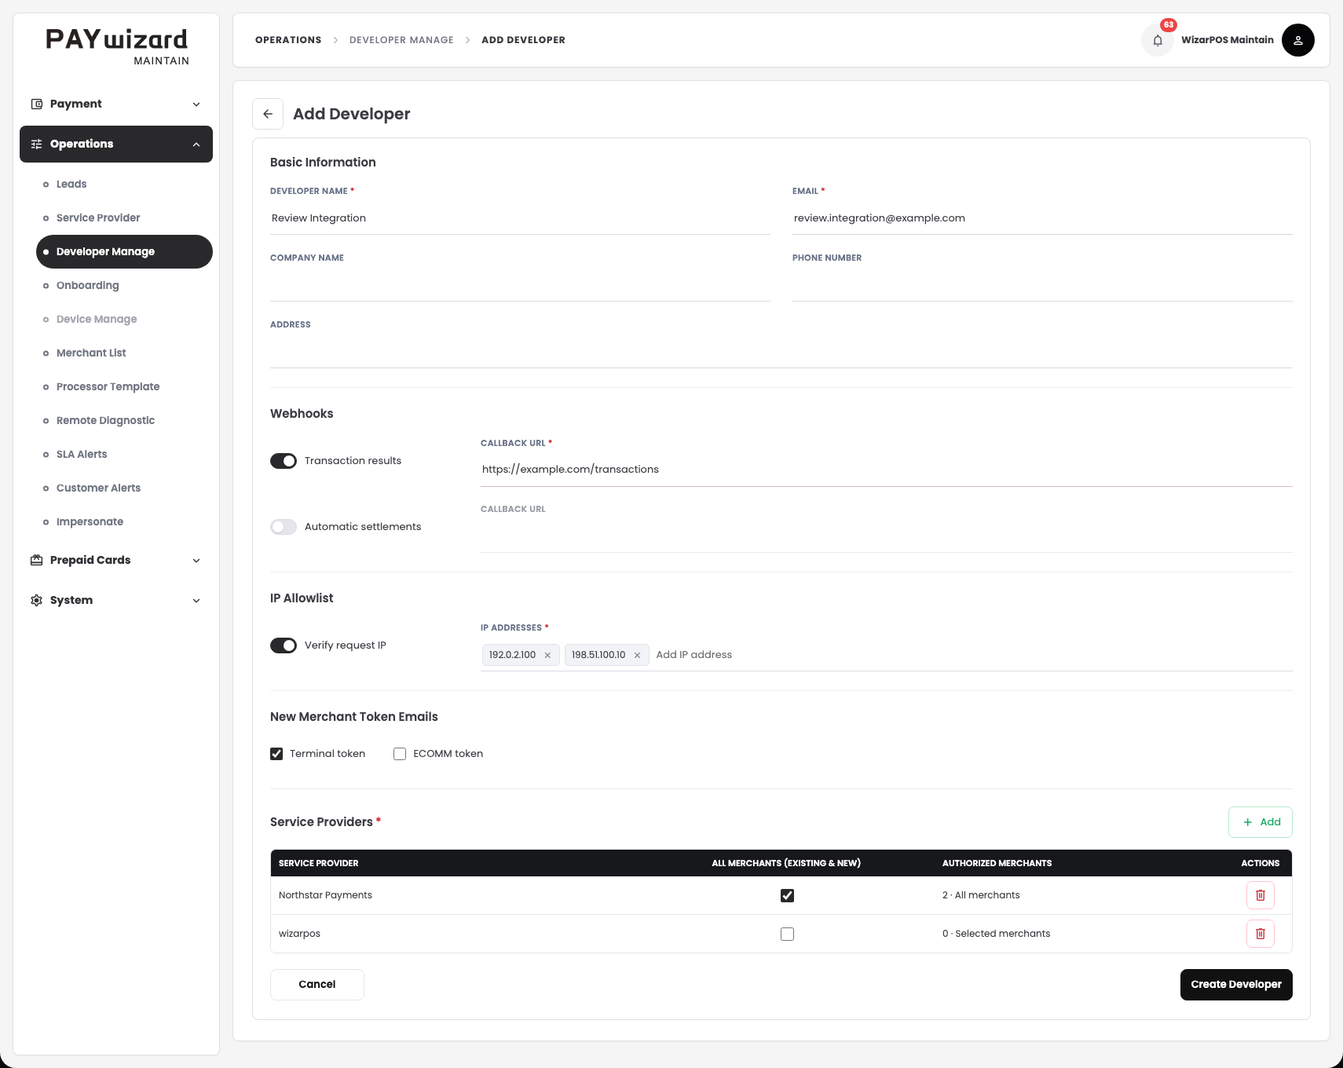
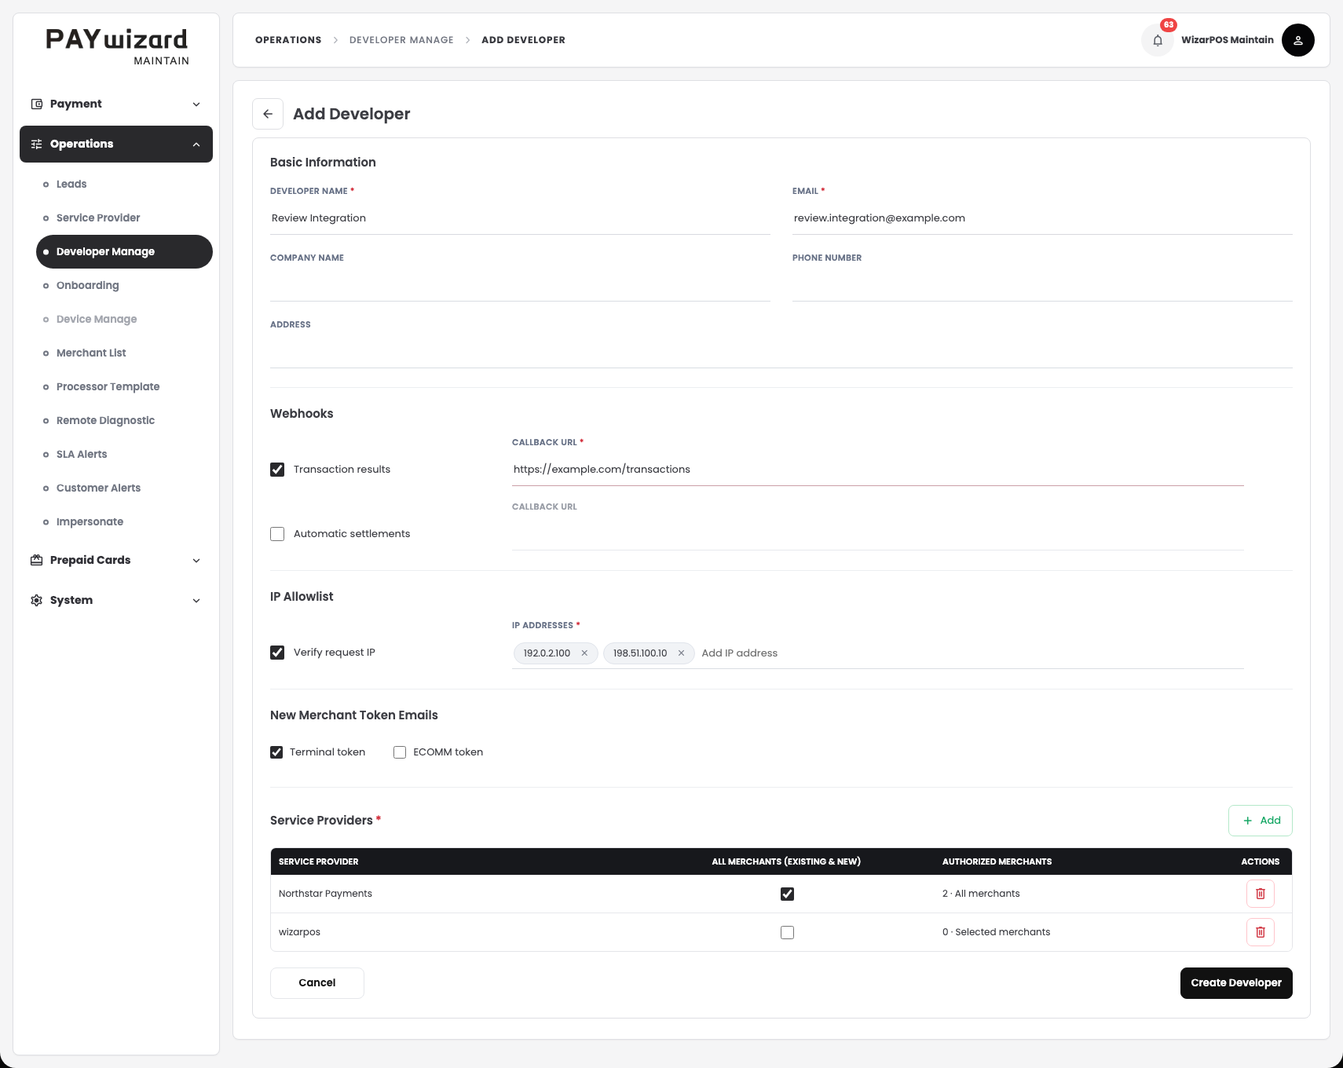
feat(developer-management): 将设置开关改为紧凑复选框布局
- 按选定设计统一 Webhook 与 IP 验证控件布局
- 保留停用字段内容并隐藏动态必填标记
- 更新设计文档、回归测试及视觉验收证据

diff --git a/tests/developer-management.spec.js b/tests/developer-management.spec.js
@@ -57,7 +57,7 @@ test('create and edit use pages, validate URLs and IPs, support multi-provider s
   await addProviders(page, ['Northstar Payments','wizarpos']);
   await page.getByRole('checkbox', { name: 'All merchants for wizarpos', exact: true }).uncheck();
   await page.locator('#dmField-ips').fill('192.0.2.10,192.0.2.10');
-  await page.getByRole('switch', { name: 'Transaction results', exact: true }).check();
+  await page.getByRole('checkbox', { name: 'Transaction results', exact: true }).check();
   await page.locator('#dmField-notifyUrl').fill('not-a-url');
   await page.getByRole('button', { name: 'Create Developer', exact: true }).click();
   await expect(page.locator('#dmFieldError-name')).toContainText('already exists');
@@ -185,7 +185,7 @@ test('allowlist validates both entry points, protects final IP and retains saved
   await page.getByRole('button', { name: 'Edit Atlas Integration', exact: true }).click();
   await expect(page.locator('#dmIpChips')).toContainText('192.0.2.10');
   await expect(page.locator('#dmIpChips')).toContainText('198.51.100.25');
-  await page.getByRole('switch', { name: 'Verify request IP', exact: true }).uncheck();
+  await page.getByRole('checkbox', { name: 'Verify request IP', exact: true }).uncheck();
   await expect(page.locator('#dmFieldWrap-ips')).toBeVisible();
   await expect(page.locator('#dmField-ips')).toBeDisabled();
   await page.getByRole('button', { name: 'Save Changes', exact: true }).click();
@@ -367,9 +367,9 @@ test('legacy accounts migrate without expanding access, sending emails or changi
 
 test('failed page save retains fields and callback state; disabled webhooks retain URLs without validation', async ({ page }) => {
   await page.goto(`/50.developer_form.html?client=${firstId}`);
-  await page.getByRole('switch',{name:'Transaction results',exact:true}).check();
+  await page.getByRole('checkbox',{name:'Transaction results',exact:true}).check();
   await page.locator('#dmField-notifyUrl').fill('https://example.com/notify');
-  await page.getByRole('switch',{name:'Transaction results',exact:true}).uncheck();
+  await page.getByRole('checkbox',{name:'Transaction results',exact:true}).uncheck();
   await page.locator('#dmField-company').fill('Retained company');
   await page.evaluate(key => {const original=Storage.prototype.setItem;Storage.prototype.setItem=function(k,v){if(k===key)throw new DOMException('Quota exceeded','QuotaExceededError');return original.call(this,k,v);};},key);
   await page.getByRole('button',{name:'Save Changes',exact:true}).click();
@@ -380,20 +380,40 @@ test('failed page save retains fields and callback state; disabled webhooks reta
   expect((await read(page)).accounts[0].company).not.toBe('Retained company');
 });
 
-test('callback rows remain stable when disabled, IP chips validate and remove individually, and mail uses checkboxes', async ({ page }) => {
+test('checkbox settings keep stable rows and disabled values; IP chips validate and remove individually', async ({ page }) => {
   await page.goto(`/50.developer_form.html?client=${firstId}`);
   const row = page.locator('.dm-settings-row').first();
   const before = await row.boundingBox();
   await expect(page.locator('#dmField-notifyUrl')).toBeVisible(); await expect(page.locator('#dmField-notifyUrl')).toBeDisabled();
-  await page.getByRole('switch',{name:'Transaction results',exact:true}).check();
+  await page.getByRole('checkbox',{name:'Transaction results',exact:true}).check();
   await page.locator('#dmField-notifyUrl').fill('https://example.com/transaction');
-  await page.getByRole('switch',{name:'Transaction results',exact:true}).uncheck();
+  await page.getByRole('checkbox',{name:'Transaction results',exact:true}).uncheck();
   await expect(page.locator('#dmField-notifyUrl')).toBeDisabled();
   await expect(page.locator('#dmField-notifyUrl')).toHaveValue('https://example.com/transaction');
   const after = await row.boundingBox(); expect(after.height).toBe(before.height);
   await page.getByRole('textbox',{name:'Add IP address',exact:true}).fill('198.51.100.20');
   await page.getByRole('textbox',{name:'Add IP address',exact:true}).press('Enter');
   await expect(page.locator('#dmIpChips .dm-ip-chip')).toHaveCount(2);
+  for (const name of ['Transaction results', 'Automatic settlements', 'Verify request IP']) {
+    await expect(page.getByRole('checkbox',{name,exact:true})).toBeVisible();
+    await expect(page.getByRole('switch',{name,exact:true})).toHaveCount(0);
+  }
+  await page.getByRole('checkbox',{name:'Transaction results',exact:true}).check();
+  await page.locator('#dmField-notifyUrl').fill('https://example.com/webhooks/transactions');
+  await page.getByRole('checkbox',{name:'Automatic settlements',exact:true}).check();
+  await page.locator('#dmField-settleUrl').fill('https://example.com/webhooks/settlements');
+  await page.getByRole('checkbox',{name:'Automatic settlements',exact:true}).uncheck();
+  await expect(page.locator('#dmFieldWrap-settleUrl .pc-required')).toBeHidden();
+  await expect(page.locator('#dmField-settleUrl')).toBeDisabled();
+  await page.locator('[aria-labelledby="dmWebhookTitle"]').evaluate(e=>e.scrollIntoView({block:'start'}));
+  const webhooks=await page.locator('[aria-labelledby="dmWebhookTitle"]').boundingBox();
+  const allowlist=await page.locator('[aria-labelledby="dmIpTitle"]').boundingBox();
+  await page.screenshot({path:'docs/validation/developer-management/checkbox-settings-page.png'});
+  await page.screenshot({path:'docs/validation/developer-management/checkbox-settings.png',clip:{x:webhooks.x,y:webhooks.y,width:webhooks.width,height:allowlist.y+allowlist.height-webhooks.y}});
+  await page.getByRole('checkbox',{name:'Transaction results',exact:true}).uncheck();
+  await page.getByRole('checkbox',{name:'Transaction results',exact:true}).check();
+  await page.locator('#dmField-notifyUrl').fill('https://example.com/transaction');
+  await page.getByRole('checkbox',{name:'Transaction results',exact:true}).uncheck();
   await page.getByRole('textbox',{name:'Add IP address',exact:true}).fill('192.0.2.10');
   await page.getByRole('textbox',{name:'Add IP address',exact:true}).press('Enter');
   await expect(page.locator('#dmFieldError-ips')).toContainText('duplicate');
@@ -461,7 +481,7 @@ test('service provider catalog matches the management page and new provider plat
   await dialog(page).getByRole('button',{name:'Add Selected',exact:true}).click();
   await expect(page.locator('#dmProviderRows button .material-symbols-rounded')).toHaveText('delete');
   await page.locator('#dmField-name').fill('Catalog Integration');await page.locator('#dmField-email').fill('catalog.integration@example.com');
-  await page.getByRole('switch',{name:'Verify request IP',exact:true}).uncheck();
+  await page.getByRole('checkbox',{name:'Verify request IP',exact:true}).uncheck();
   await page.getByRole('button',{name:'Create Developer',exact:true}).click();await expect(page).toHaveURL(/50.developer_manage.html$/);
   const after=await read(page), created=after.accounts.find(a=>a.name==='Catalog Integration');
   expect(after.bindings.filter(b=>b.clientId!==created.id)).toEqual(before.bindings);

diff --git a/scripts/developer-management.js b/scripts/developer-management.js
@@ -193,8 +193,8 @@
   function editAccount(id) {
     remember(); location.href = id ? url('form', id) : '50.developer_form.html';
   }
-  function switchField(name, label, checked) {
-    return `<label class="dm-toggle" for="dmField-${name}"><span>${esc(label)}</span><span class="dm-switch"><input type="checkbox" role="switch" id="dmField-${name}"${checked ? ' checked' : ''}><span aria-hidden="true"></span></span></label>`;
+  function settingChoice(name, label, checked) {
+    return `<label class="dm-setting-choice" for="dmField-${name}"><input type="checkbox" id="dmField-${name}"${checked ? ' checked' : ''}><span>${esc(label)}</span></label>`;
   }
   function mountForm() {
     const a = account();
@@ -203,8 +203,8 @@
     heading(a ? 'Edit Developer' : 'Add Developer', '50.developer_manage.html', a?.name || '');
     $('dmContent').innerHTML = `<div class="pc-form-panel"><form id="dmAccountForm" novalidate>
       <section class="dm-form-section" aria-labelledby="dmBasicTitle"><h2 id="dmBasicTitle">Basic Information</h2><div class="dm-form-grid">${field('name', 'Developer Name', draft.name, { required: true, readonly: !!a })}${field('email', 'Email', draft.email, { required: true, readonly: !!a })}${field('company', 'Company Name', draft.company)}${field('phone', 'Phone Number', draft.phone)}${field('address', 'Address', draft.address, { wide: true })}</div></section>
-      <section class="dm-form-section" aria-labelledby="dmWebhookTitle"><h2 id="dmWebhookTitle">Webhooks</h2><div class="dm-settings-rows"><div class="dm-settings-row">${switchField('notifyEnabled', 'Transaction results', draft.notifyEnabled)}${field('notifyUrl', 'Callback URL', draft.notifyUrl, { required: true })}</div><div class="dm-settings-row">${switchField('settleEnabled', 'Automatic settlements', draft.settleEnabled)}${field('settleUrl', 'Callback URL', draft.settleUrl, { required: true })}</div></div></section>
-      <section class="dm-form-section" aria-labelledby="dmIpTitle"><h2 id="dmIpTitle">IP Allowlist</h2><div class="dm-settings-row">${switchField('verify', 'Verify request IP', draft.verify)}<div class="dm-field pc-field" id="dmFieldWrap-ips"><label for="dmField-ips">IP Addresses<span class="pc-required">*</span></label><div class="dm-ip-editor" id="dmIpEditor"><div id="dmIpChips" class="dm-ip-chips"></div><input id="dmField-ips" name="ips" aria-label="Add IP address" aria-describedby="dmFieldError-ips" placeholder="Add IP address" autocomplete="off" spellcheck="false"></div><p class="dm-field-error" id="dmFieldError-ips" hidden></p></div></div></section>
+      <section class="dm-form-section" aria-labelledby="dmWebhookTitle"><h2 id="dmWebhookTitle">Webhooks</h2><div class="dm-settings-rows"><div class="dm-settings-row">${settingChoice('notifyEnabled', 'Transaction results', draft.notifyEnabled)}${field('notifyUrl', 'Callback URL', draft.notifyUrl, { required: true })}</div><div class="dm-settings-row">${settingChoice('settleEnabled', 'Automatic settlements', draft.settleEnabled)}${field('settleUrl', 'Callback URL', draft.settleUrl, { required: true })}</div></div></section>
+      <section class="dm-form-section" aria-labelledby="dmIpTitle"><h2 id="dmIpTitle">IP Allowlist</h2><div class="dm-settings-row">${settingChoice('verify', 'Verify request IP', draft.verify)}<div class="dm-field pc-field" id="dmFieldWrap-ips"><label for="dmField-ips">IP Addresses<span class="pc-required">*</span></label><div class="dm-ip-editor" id="dmIpEditor"><div id="dmIpChips" class="dm-ip-chips"></div><input id="dmField-ips" name="ips" aria-label="Add IP address" aria-describedby="dmFieldError-ips" placeholder="Add IP address" autocomplete="off" spellcheck="false"></div><p class="dm-field-error" id="dmFieldError-ips" hidden></p></div></div></section>
       <section class="dm-form-section" aria-labelledby="dmMailTitle"><h2 id="dmMailTitle">New Merchant Token Emails</h2><div class="dm-email-options">${['terminalAuto', 'ecommAuto'].map(name => `<label class="dm-email-choice"><input type="checkbox" id="dmField-${name}"${draft[name] ? ' checked' : ''}><span>${name === 'terminalAuto' ? 'Terminal token' : 'ECOMM token'}</span></label>`).join('')}</div></section>
       <section class="dm-form-section dm-provider-section" aria-labelledby="dmProvidersTitle"><div class="dm-section-heading"><h2 id="dmProvidersTitle">Service Providers<span class="pc-required">*</span></h2><button type="button" class="pc-button pc-add" id="dmAddProviders" aria-label="Add Service Providers">${icon('add')}Add</button></div><div id="dmField-providerScopes" tabindex="-1" aria-describedby="dmFieldError-providerScopes"><div class="pc-table-scroll"><table class="pc-table dm-provider-table" aria-label="Bound service providers"><thead><tr><th>SERVICE PROVIDER</th><th>ALL MERCHANTS (EXISTING &amp; NEW)</th><th>AUTHORIZED MERCHANTS</th><th class="pc-actions-col">ACTIONS</th></tr></thead><tbody id="dmProviderRows"></tbody></table></div></div><p class="dm-field-error" id="dmFieldError-providerScopes" hidden></p></section>
       <footer class="pc-form-actions"><a href="50.developer_manage.html" class="pc-button pc-secondary" id="dmCancelForm">Cancel</a><button class="pc-button pc-primary" type="submit" id="dmSubmitAccount">${a ? 'Save Changes' : 'Create Developer'}</button></footer>

diff --git a/styles/developer-management.css b/styles/developer-management.css
@@ -75,9 +75,11 @@
 .dm-account-page .dm-field.pc-field>input:focus{border-bottom-color:var(--pc-field-focus)}
 .dm-account-page .dm-field.pc-field>[aria-invalid=true]{border-bottom-color:#b32f3c}
 .dm-account-page .dm-field[aria-invalid=true],.dm-account-page #dmField-providerScopes[aria-invalid=true]{outline:1px solid #b32f3c;outline-offset:3px}
-.dm-settings-rows{display:flex;flex-direction:column;gap:18px}
-.dm-settings-row{display:grid;grid-template-columns:240px minmax(0,1fr);align-items:center;gap:28px;min-height:66px}
-.dm-toggle{display:flex;align-items:center;flex-direction:row-reverse;justify-content:flex-end;gap:10px;min-height:40px;font-size:13px;cursor:pointer}
+.dm-settings-rows{display:flex;flex-direction:column;gap:16px}
+.dm-settings-row{display:grid;grid-template-columns:minmax(220px,25%) minmax(0,1fr);align-items:start;gap:28px;min-height:66px;max-width:1240px}
+.dm-setting-choice{display:flex;align-items:center;gap:12px;min-height:40px;margin-top:24px;font-size:13px;cursor:pointer}
+.dm-setting-choice input{width:18px;height:18px;flex:none;padding:0;margin:0;accent-color:#29292c;cursor:pointer}
+.dm-setting-choice input:focus-visible{outline:2px solid #687287;outline-offset:3px}
 .dm-account-page .dm-disabled-field{color:#9b9fa8}
 .dm-account-page .dm-disabled-field>label{color:#9b9fa8}
 .dm-account-page .dm-field.pc-field>input:disabled{color:#9b9fa8;border-bottom-color:#e7e9ed;cursor:default;opacity:1}
@@ -86,7 +88,7 @@
 .dm-ip-editor:focus-within{border-bottom-color:var(--pc-field-focus)}
 .dm-ip-editor:has([aria-invalid=true]){border-bottom-color:#b32f3c}
 .dm-ip-chips{display:contents}
-.dm-ip-chip{display:inline-flex;align-items:center;gap:5px;padding:3px 5px 3px 8px;background:#f1f3f6;border:1px solid #e0e4eb;border-radius:5px;font-size:12px;line-height:20px;white-space:nowrap}
+.dm-ip-chip{display:inline-flex;align-items:center;gap:8px;padding:3px 7px 3px 12px;background:#f1f3f6;border:1px solid #e0e4eb;border-radius:18px;font-size:12px;line-height:20px;white-space:nowrap}
 .dm-ip-chip button{display:inline-flex;align-items:center;justify-content:center;width:20px;height:20px;padding:0;border:0;border-radius:3px;background:transparent;color:#747985;cursor:pointer}
 .dm-ip-chip button:hover{background:#e3e7ed}
 .dm-ip-chip .material-symbols-rounded{font-size:15px}
@@ -98,13 +100,6 @@
 .dm-email-options{display:flex;align-items:center;gap:36px;min-height:40px}
 .dm-email-choice{display:inline-flex;align-items:center;gap:9px;cursor:pointer;font-size:13px}
 .dm-account-page .dm-email-choice input{width:16px;height:16px;padding:0;margin:0;accent-color:#29292c;cursor:pointer}
-.dm-switch{position:relative;display:inline-flex;flex:none;width:34px;height:20px}
-.dm-switch input{position:absolute;inset:0;opacity:0;cursor:pointer;width:100%;height:100%;margin:0;z-index:1}
-.dm-switch>span{display:block;width:100%;height:100%;background:#e4e6eb;border:1px solid #d9dde3;border-radius:20px;transition:background .15s ease}
-.dm-switch>span:after{content:'';display:block;width:14px;height:14px;margin:2px;background:#fff;border-radius:50%;box-shadow:0 1px 2px #0002;transition:transform .15s ease}
-.dm-switch input:checked+span{background:#29292c;border-color:#29292c}
-.dm-switch input:checked+span:after{transform:translateX(14px)}
-.dm-switch input:focus-visible+span{outline:2px solid #687287;outline-offset:3px}
 .dm-section-heading{display:flex;align-items:center;justify-content:space-between;gap:24px;margin-bottom:14px}
 .dm-section-heading h2{margin:0}
 .dm-provider-name{display:flex;align-items:center;gap:10px;min-width:0}
@@ -140,5 +135,5 @@
 .dm-binding-copy{display:-webkit-box;-webkit-line-clamp:2;-webkit-box-orient:vertical;max-height:35px;overflow:hidden}
 .pc-picker-panel .pp-option-copy{display:flex;flex-direction:column;gap:4px}
 .pc-picker-panel .pp-option-detail{font-size:11px;line-height:1.5;color:#7b8695;white-space:normal}
-@media(prefers-reduced-motion:reduce){.dm-switch>span,.dm-switch>span:after{transition:none}.dm-toast{animation:none}}
+@media(prefers-reduced-motion:reduce){.dm-toast{animation:none}}
 @media(max-width:1150px){.dm-token-actions{margin-left:0}.dm-form-grid{gap:16px 20px}.dm-title-group{flex-wrap:wrap}}

diff --git a/docs/validation/developer-management/checkbox-settings-comparison.html b/docs/validation/developer-management/checkbox-settings-comparison.html
@@ -1,0 +1,1 @@
+<!doctype html><html lang="zh"><meta charset="utf-8"><title>开发者控件方案核对</title><style>body{margin:24px;background:white;font:14px Arial;color:#29292c}main{display:grid;grid-template-columns:1fr 1fr;gap:24px}h2{font-size:16px}img{display:block;width:100%;height:auto}p{color:#737b88;line-height:1.6}</style><main><section><h2>选定的第一版</h2><img src="checkbox-settings-selected-design.png" alt="Selected Compact Aligned Rows concept"></section><section><h2>实际 Portal 页面</h2><img src="checkbox-settings.png" alt="Implemented checkbox settings"><p>采用 Portal 紧凑字号；停用字段隐藏必填星号。其余业务与校验规则保持一致。</p></section></main></html>

diff --git a/design-qa.md b/design-qa.md
@@ -409,3 +409,50 @@ final result: passed
 - Comparison history: first scoped comparison has no actionable P0/P1/P2 findings; native checkbox glyph/corner rendering is an accepted minor standard-control difference. No further visual iteration needed.
 - Open questions: none. Follow-up polish: none within the requested scope. Desktop only, per repository instruction.
 - Implementation checklist: six entries replaced; switch role/track removed; dependency and persistence unchanged; screenshots reviewed; regression, syntax, build and diff checks passed. Local prototype only, no deployment.
+
+---
+
+# 开发者三组控件：第一版视觉验收
+
+## 比较目标
+
+- 用户明确选择最近一组设计图中的第一张 Compact Aligned Rows。
+- 来源：`docs/validation/developer-management/checkbox-settings-selected-design.png`，1820 × 864 像素。
+- 实现：`docs/validation/developer-management/checkbox-settings.png`，872 × 384 像素裁剪；完整页面见 `checkbox-settings-page.png`。浏览器桌面视口 1280 × 720，deviceScaleFactor 1。
+- 状态：交易回调开启并填入 URL，自动结算回调关闭且保留 URL，IP 验证开启并保留两个 IP 标签。
+- 并排比较：`docs/validation/developer-management/checkbox-settings-comparison.html`。比较时两图等宽显示，设计稿顶部的方案名称不属于产品内容；Portal 保留 13px 正文字号，不按设计图放大字号。
+
+## 首轮发现
+
+- [P2] 固定 280px 左列在较窄桌面上占比过大，输入起点约占内容宽度 35%，超过设计图的约 28%。修复为左列占 25%、至少 220px，并保留 28px 列间距；需要更新截图再次比较。
+- 设计稿停用 URL 仍误带必填星号。按已确认业务规则，实际页面停用时隐藏星号，保留输入内容与禁用状态。
+
+## 五项视觉核对
+
+- 字体：沿用 Portal 的 Poppins、13px 正文与 15px 小节标题，字重层级保留。
+- 布局：三组采用左复选框、右输入，右侧标签与下划线一致对齐；比例列宽修复后输入起点约占内容宽度 28%，与设计稿一致。
+- 颜色：沿用深灰勾选、白底、浅灰分隔线；停用字段淡灰。
+- 图像：目标只包含标准表单控件，没有需要生成的图像资产；使用原生复选框与已有 Material Symbols 删除图标。
+- 文案：保留 Webhooks、Transaction results、Automatic settlements、IP Allowlist、Verify request IP 及原字段标签；不将评审用方案名称写入产品页面。
+
+## 交互与验证
+
+- Chrome 已核对原生复选框、启停后值保留、IP 多值输入与标签状态。
+- 20 项 Playwright 回归通过，含保存、编辑、校验、无效 IP、跨页选择与旧数据迁移。
+- 比例列宽修复后，以相同 1280 × 720 视口重新捕获相同状态，并排页面在 Chrome 中检查通过；较矮桌面与本次复选框交互两项回归通过。
+- Chrome 开发者页控制台 error 记录为空。
+
+## 复查结果
+
+- 首轮 P2 证据保留为 `docs/validation/developer-management/checkbox-settings-before-qa.png`；修复后的 `checkbox-settings.png` 已覆盖更新。
+- 全图比较在 `checkbox-settings-comparison.html` 中等宽并排显示；三组控件的布局、字段关联、选中与禁用状态符合选定方向。相关局部即全部三个设置组，872 × 384 裁剪足以清晰核对字号、勾选形态、IP 标签与输入下划线，无需另加局部裁剪。
+- 保留 Portal 紧凑字号、18px 原生复选框与动态必填星号是既定项目规格及业务规则；评审图的方案名称不进入正式界面。
+- 无待修复的 P0/P1/P2；无需要扩大本次范围的 P3 项。
+
+## 完成清单
+
+- 已替换三个 switch 语义为 checkbox，支持名称点击与键盘交互。
+- 已保留未勾选时的值、禁用联动、行高与保存校验。
+- 已更新设计记录、自动回归与实际页面证据。
+
+final result: passed

diff --git a/docs/design/developer-management-replica.md b/docs/design/developer-management-replica.md
@@ -16,7 +16,7 @@
 - Bind Merchant 的商户选择弹窗移除 MID、BINDING 两列。独立绑定主列表原本没有这两列，无需为此改动其业务字段。
 - Webhook、IP 白名单与 Token 邮件的授权、回调及发送规则保持已确认含义；本轮重新选择控件组织方式。
 
-- 回调改为一项一行：左侧为紧邻业务名称的开关，右侧为同一行的下划线 URL 输入。
+- 视觉评审已选择第一版 Compact Aligned Rows，取代开关样式：回调与 IP 验证使用复选框，紧邻左侧业务名称，右侧统一对齐下划线输入。左列占 25% 且至少 220px、列间距 28px、内容最大宽度 1240px，沿用 Portal 紧凑字号，IP 地址使用圆角标签。
 - 回调或 IP 验证关闭时，输入仍显示并禁用，保留内容，隐藏对应必填标记，维持行高与后续内容位置。
 - IP 改为可逐项移除的标签输入：Enter、逗号、粘贴多个地址或移出输入时提交标签，逐项校验 IPv4 与重复项；无效输入保留并就地提示，保存时仍统一校验。
 - Terminal、ECOMM Token 邮件偏好并排使用复选框。
@@ -32,14 +32,14 @@
 页面顺序：
 
 1. Basic Information：Developer Name、Email、Company Name、Phone Number、Address。
-2. Webhooks：Transaction results、Automatic settlements，各自独立开关与 Callback URL。
+2. Webhooks：Transaction results、Automatic settlements，各自独立复选框与 Callback URL。
 3. IP Allowlist：Verify request IP 与 IP Addresses 为同组配置。
 4. New Merchant Token Emails：Terminal token 与 ECOMM token 独立复选框。
 5. Service Providers：置于底部的服务商绑定列表。
 
 Developer Name、Email、至少一个服务商必填；名称与 Email 创建时分别查重，编辑时只读。其余原有基础资料字段不增加业务限制。服务商可在编辑时添加或移除。
 
-两个 Webhook 开关默认关闭、Token 邮件复选框默认未选；Verify request IP 沿用默认开启。各项配置均在保存后生效。保存成功返回开发者列表并保留列表筛选、分页及滚动上下文；指定商户通过原有 Bind Merchant 入口继续配置。未保存修改离页时保留项目的放弃修改确认；保存失败保留全部输入并滚动、聚焦可见错误。
+两个 Webhook 复选框默认未选、Token 邮件复选框默认未选；Verify request IP 沿用默认勾选。各项配置均在保存后生效。保存成功返回开发者列表并保留列表筛选、分页及滚动上下文；指定商户通过原有 Bind Merchant 入口继续配置。未保存修改离页时保留项目的放弃修改确认；保存失败保留全部输入并滚动、聚焦可见错误。
 
 ## 服务商与商户授权
 
